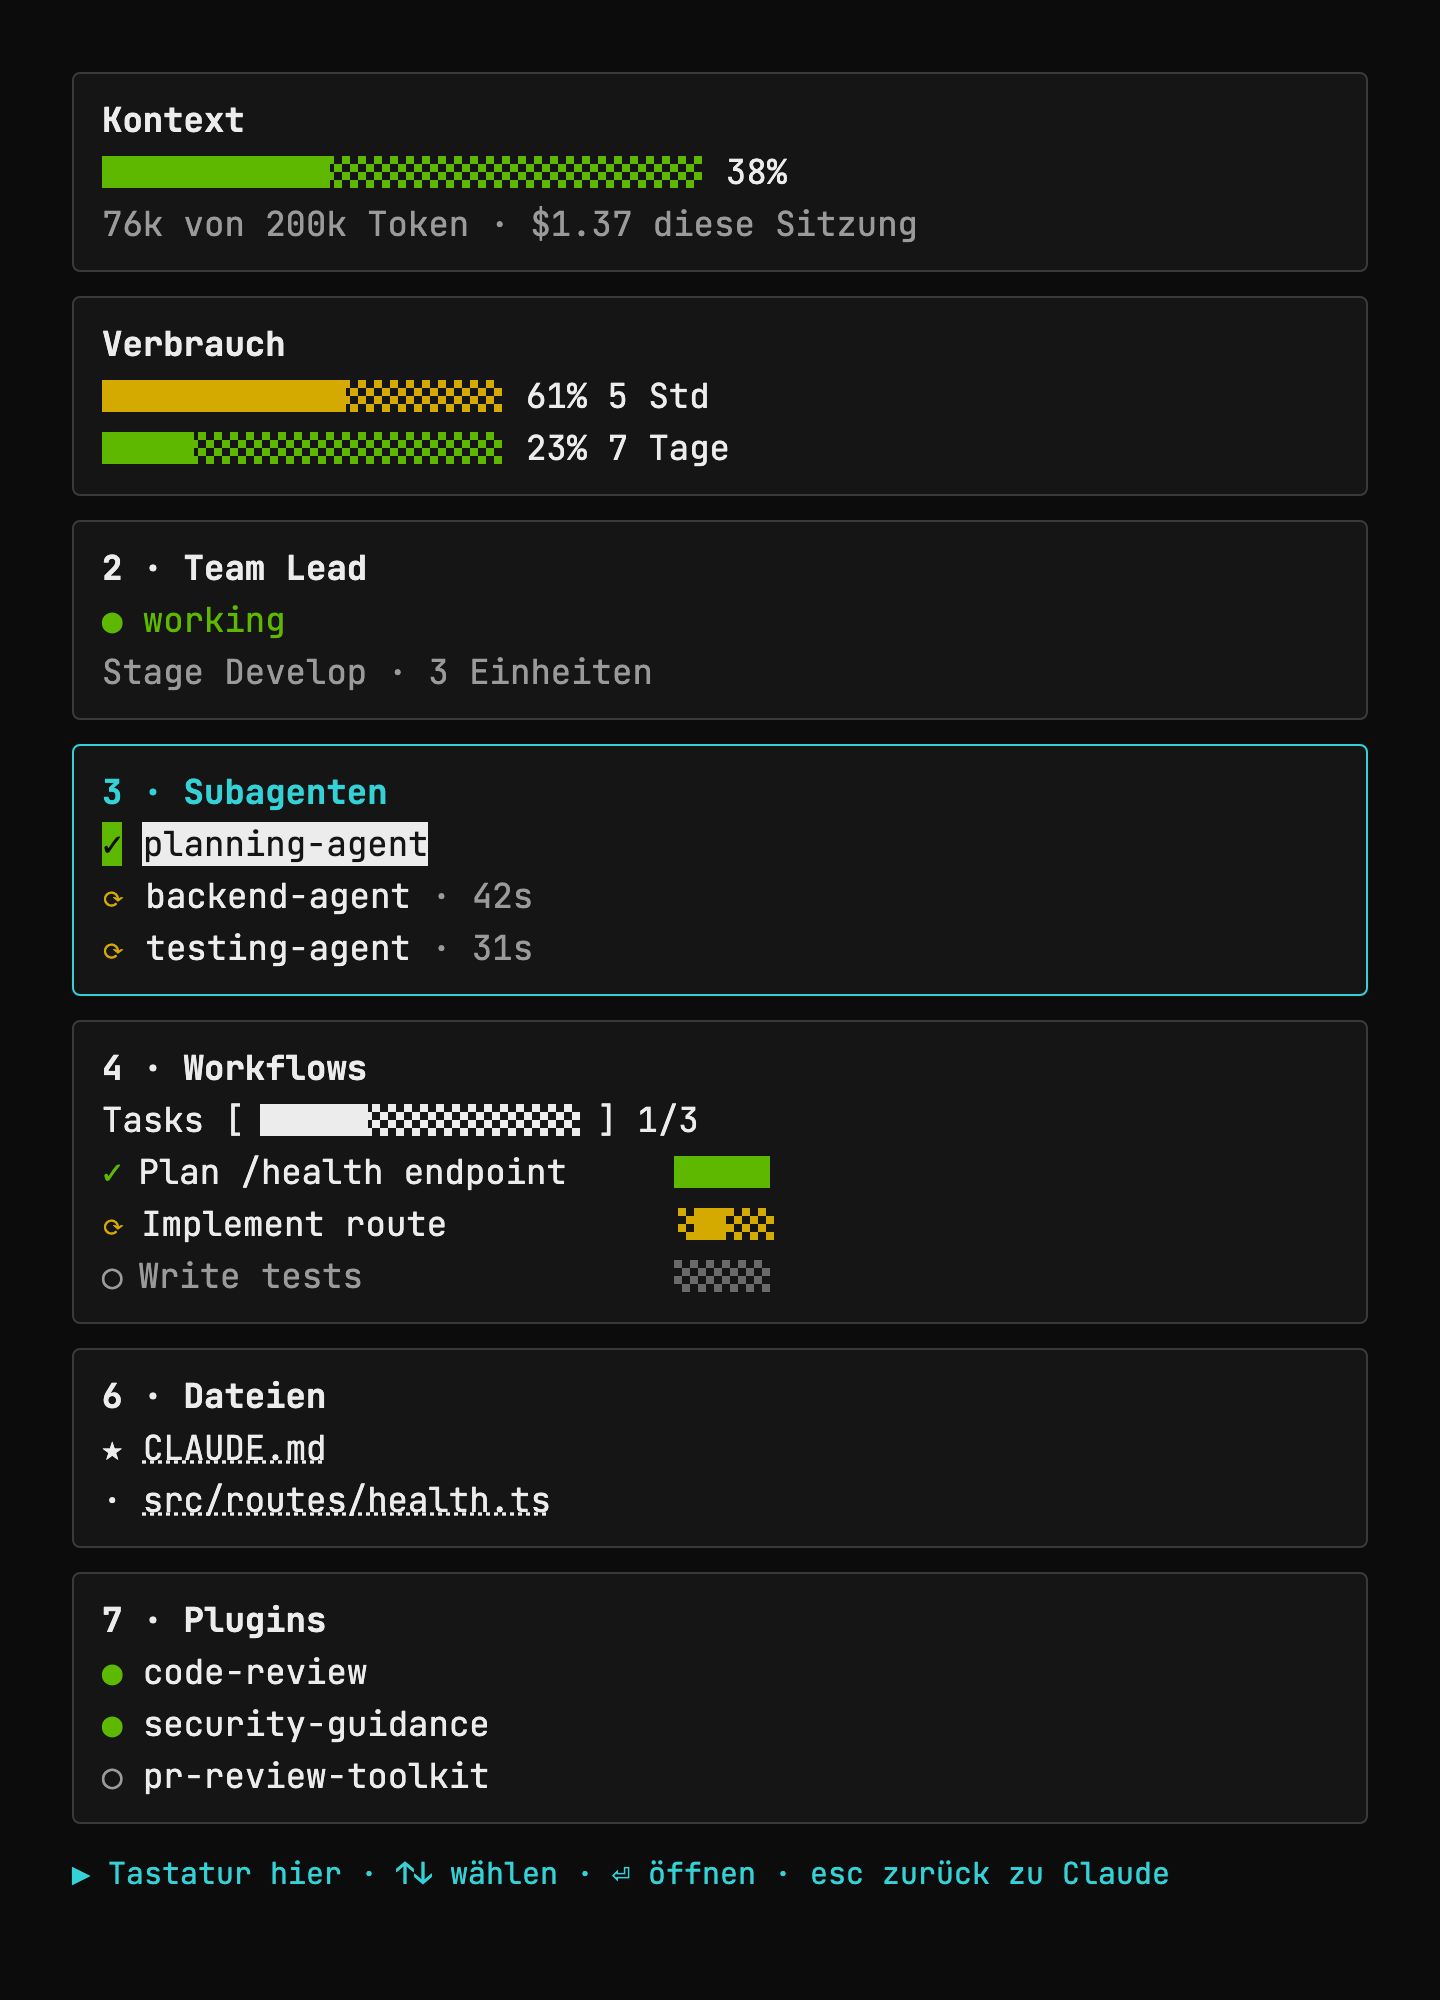
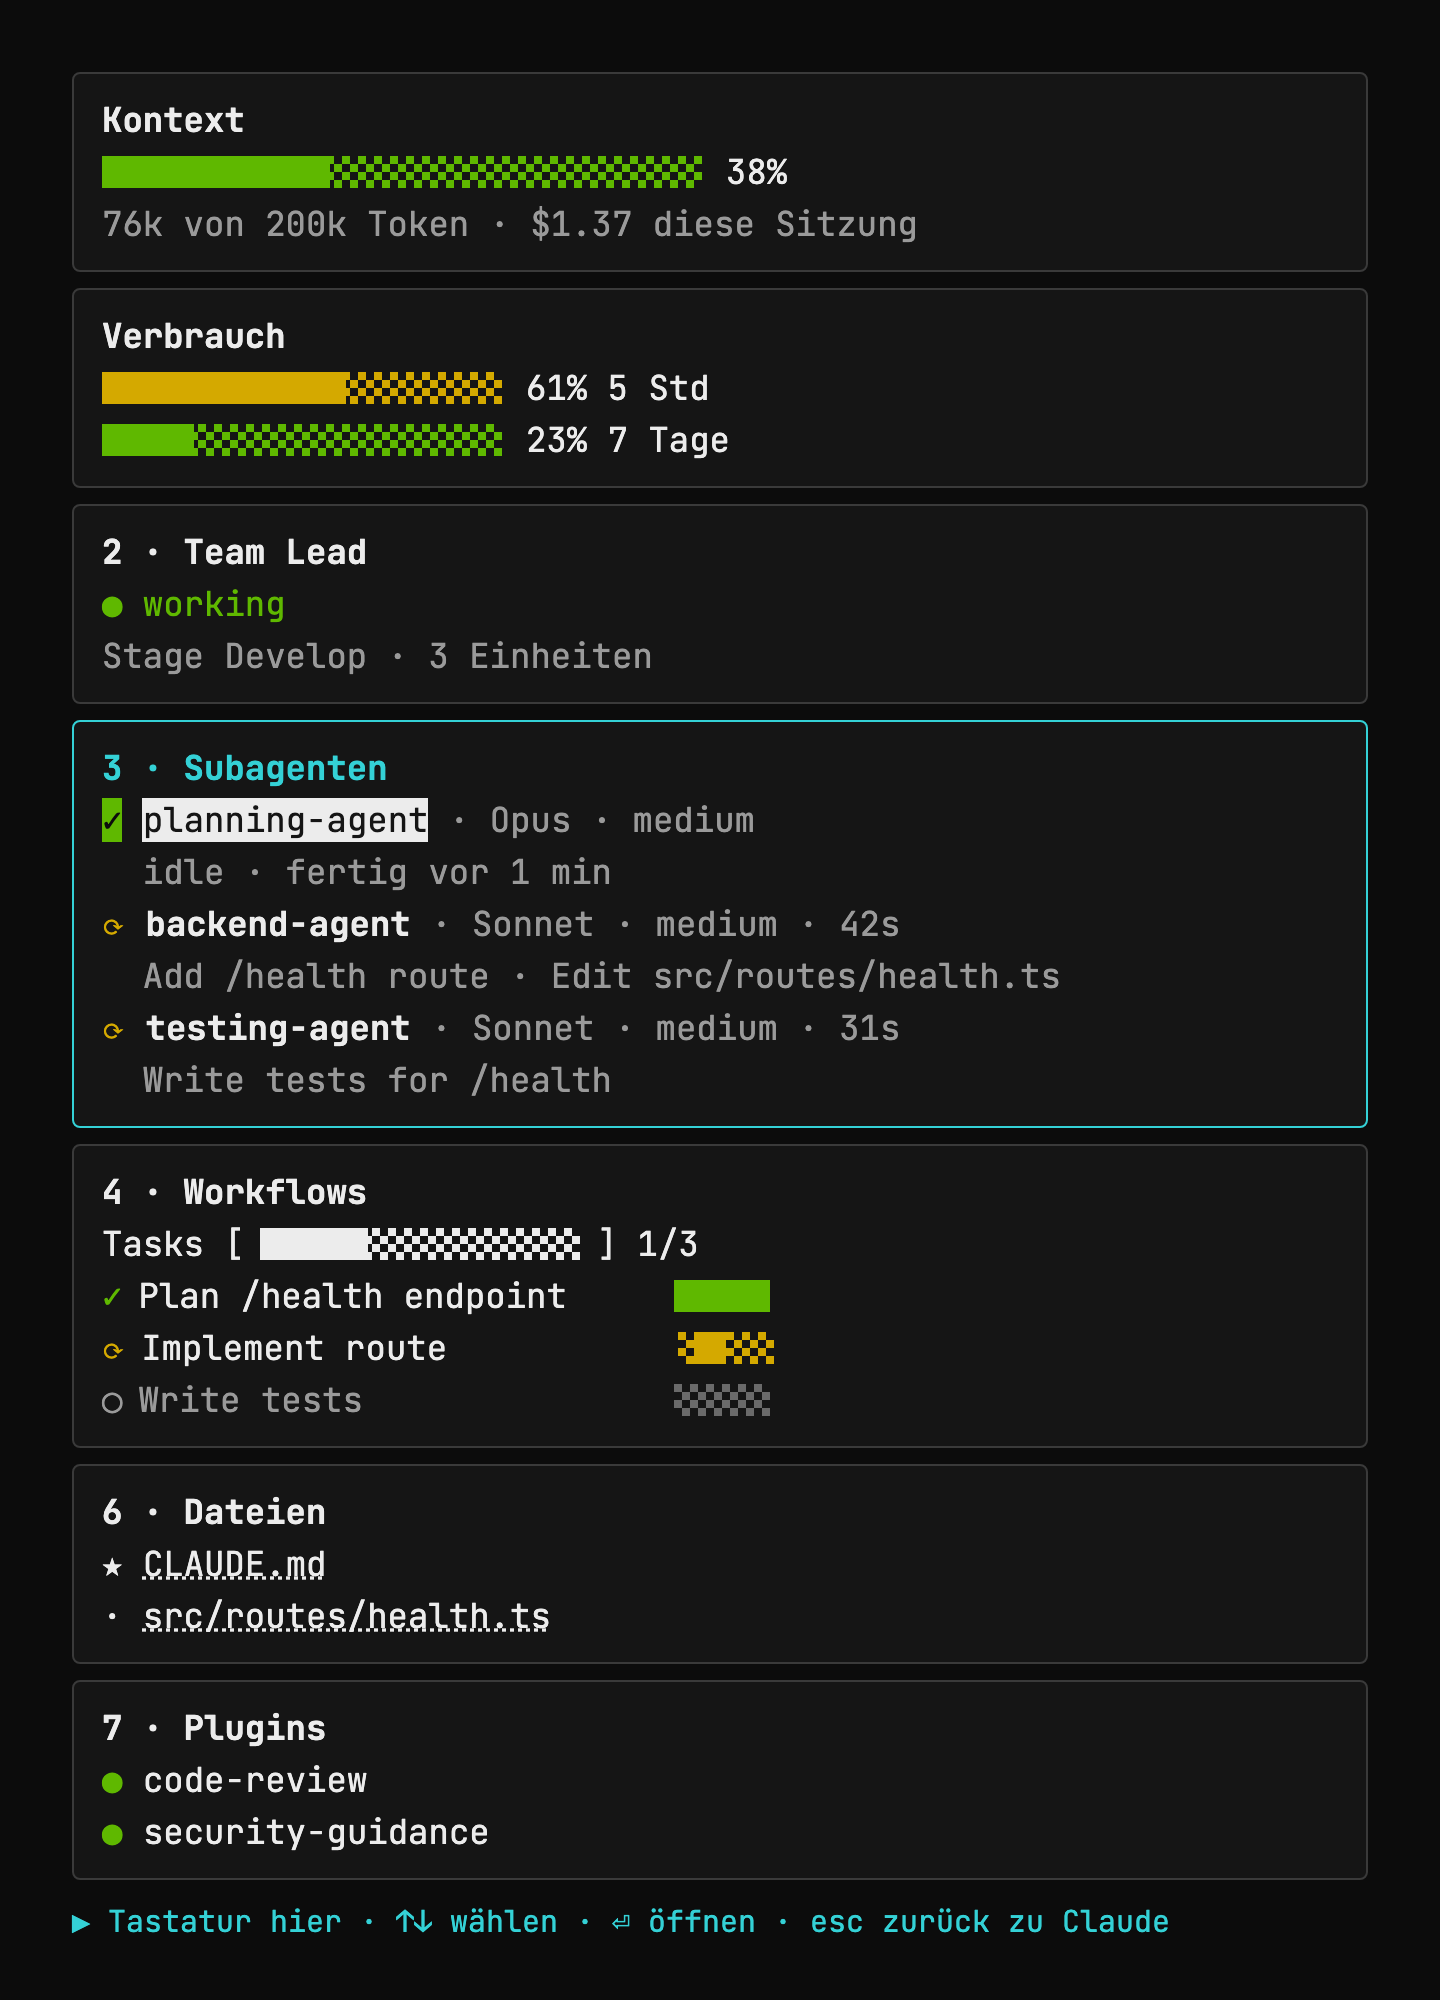
release: v1.4.1 (from private 2e42627)

diff --git a/site/cockpit.html b/site/cockpit.html
@@ -115,9 +115,31 @@
   </section>
 
   <section>
+    <div class="wrap prose" id="setup">
+      <h2 class="h2">Set it up</h2>
+      <p class="body">The Cockpit installs separately from the framework &mdash; it&rsquo;s its own repo with its own one-liner:</p>
+      <div class="code-block">
+        <pre><code id="cockpit-install-cmd">bash &lt;(curl -fsSL https://raw.githubusercontent.com/emanuelrechsteiner/claude-cockpit/main/install.sh)</code></pre>
+        <button class="copy-btn" type="button" data-copy-target="cockpit-install-cmd">Copy</button>
+      </div>
+      <p class="body">What it installs, step by step:</p>
+      <ol>
+        <li class="body">Installs Ghostty, tmux, Node and <code>jq</code> with Homebrew, for whichever of the four are missing.</li>
+        <li class="body">Clones the Cockpit into <code>~/.claude/cockpit</code> and runs <code>npm install</code> there.</li>
+        <li class="body">Puts the <code>cockpit</code> command on your <code>PATH</code>.</li>
+        <li class="body">Registers ten entries in <code>~/.claude/settings.json</code> &mdash; eight hooks, plus <code>statusLine</code> and <code>subagentStatusLine</code> &mdash; so the Cockpit is fed by the same hooks that drive a session.</li>
+        <li class="body">Adds the &#8984;1&ndash;&#8984;7 card shortcuts and a <code>theme = rcode</code> line to <code>~/.config/ghostty/config</code>, and drops the matching color theme into <code>~/.config/ghostty/themes/rcode</code>.</li>
+      </ol>
+      <p class="body"><strong>Requirements:</strong> macOS, plus Ghostty (<code>brew install --cask ghostty</code>) &mdash; the terminal the screenshots above were captured in, and the only one that sends &#8984;1&ndash;&#8984;7 to the cards and shows the theme colors. Also tmux 3.3 or newer, Node 22 or newer, and <code>jq</code> (<code>brew install tmux node jq</code> covers all three if any are missing).</p>
+      <p class="body">The installer shows every step before it runs and asks once for a yes/no; pass <code>--dry-run</code> to see the plan without changing anything on disk. Once it&rsquo;s done: reload the Ghostty config (&#8984;+Shift+,), open a project in Ghostty, and type <code>cockpit</code>. The Cockpit stays optional &mdash; the framework runs without it.</p>
+    </div>
+  </section>
+
+  <section>
     <div class="wrap prose">
       <h2 class="h2">Seven cards, updated live</h2>
-      <p class="body">Two info cards sit on top: context-window usage and session/weekly usage. Below them are seven numbered cards you can jump to with <code>&#8984;1</code>&ndash;<code>&#8984;7</code>: 1 &middot; Model &amp; Effort, 2 &middot; Team Lead, 3 &middot; Subagents (per-agent status &mdash; <code>&#10003;</code> done, <code>&#10007;</code> failed, <code>&#10227;</code> running), 4 &middot; Workflows, 5 &middot; Links, 6 &middot; Files and 7 &middot; Plugins. All of them are fed by the same hooks this repo registers.</p>
+      <p class="body">Two info cards sit on top: context-window usage and session/weekly usage. Below them are seven numbered cards you can jump to with <code>&#8984;1</code>&ndash;<code>&#8984;7</code>: 1 &middot; Model &amp; Effort, 2 &middot; Team Lead, 3 &middot; Subagents, 4 &middot; Workflows, 5 &middot; Links, 6 &middot; Files and 7 &middot; Plugins. All of them are fed by the same hooks this repo registers.</p>
+      <p class="body"><strong>Subagents</strong> gives every subagent two lines: its type with model and effort (<code>&#10003;</code> done, <code>&#10227;</code> running, <code>&#10007;</code> failed), and a status line under it &mdash; what it is working on while it runs, <em>idle</em> once it is done.</p>
       <p class="body"><strong>Workflows</strong> shows the overall bar for the session&rsquo;s task list, and under it every task as its own row with its own bar: full when done, empty while open, a travelling two-cell block while it runs. A task reports a state, not a percentage, so the bar never pretends to measure one.</p>
       <p class="body">See <a href="https://github.com/emanuelrechsteiner/claude-cockpit">claude-cockpit</a> for setup and the full keybinding table.</p>
     </div>

diff --git a/site/install.html b/site/install.html
@@ -177,6 +177,18 @@ R.Code never stores or reads your credentials.</code></pre>
     </div>
   </section>
 
+  <section>
+    <div class="wrap prose">
+      <h2 class="h2">Optional: the Cockpit</h2>
+      <p class="body">The Cockpit is a tmux sidebar that shows a session live &mdash; context, cost, running subagents, workflow progress. It installs separately, from its own repo, with its own one-liner:</p>
+      <div class="code-block">
+        <pre><code id="cockpit-install-cmd">bash &lt;(curl -fsSL https://raw.githubusercontent.com/emanuelrechsteiner/claude-cockpit/main/install.sh)</code></pre>
+        <button class="copy-btn" type="button" data-copy-target="cockpit-install-cmd">Copy</button>
+      </div>
+      <p class="body">See <a href="cockpit.html#setup">what it installs, step by step, and the requirements</a> before running it.</p>
+    </div>
+  </section>
+
 </main>
 
 <div class="block-rule" aria-hidden="true">

diff --git a/CHANGELOG.md b/CHANGELOG.md
@@ -12,6 +12,34 @@ repository and published with every release.
 
 ## [Unreleased]
 
+## [1.4.1] - 2026-09-26
+
+The Cockpit is now public and installable, and the website and README show it
+as it runs today. No rule, hook, skill, agent or script behavior changed for a
+public install.
+
+### Added
+
+- Cockpit setup, step by step: the Cockpit page ("Set it up"), the install
+  page ("Optional: the Cockpit") and the README carry the one-line installer
+  of the companion repo `claude-cockpit`. It lists every change before making
+  it (Ghostty, tmux, Node and jq via Homebrew; the Cockpit under
+  `~/.claude/cockpit`; the `cockpit` command; ten entries in
+  `~/.claude/settings.json`; Ghostty keybindings and the `rcode` color theme),
+  asks once, backs up every file it edits, and supports `--dry-run`.
+
+### Changed
+
+- Cockpit product images: the Subagents card names model and effort for
+  every subagent and adds a status line (its task while running, "idle" once
+  done); the Workflows card lists every task with its own bar.
+- Website Cockpit page describes both cards.
+
+### Fixed
+
+- The publish step also removes the private Cockpit `subagentStatusLine`
+  setting, so a public install never points at a script it does not have.
+
 ## [1.4.0] - 2026-09-26
 
 A name that follows Anthropic's rules, a website, and a front page that shows
@@ -158,7 +186,8 @@ developer's machine; the framework carries tokens. Decision record:
 
 Superseded. Their history was replaced by 1.1.0 and is no longer available.
 
-[Unreleased]: https://github.com/emanuelrechsteiner/claude-rcode/compare/v1.4.0...HEAD
+[Unreleased]: https://github.com/emanuelrechsteiner/claude-rcode/compare/v1.4.1...HEAD
+[1.4.1]: https://github.com/emanuelrechsteiner/claude-rcode/compare/v1.4.0...v1.4.1
 [1.4.0]: https://github.com/emanuelrechsteiner/claude-rcode/compare/v1.3.0...v1.4.0
 [1.3.0]: https://github.com/emanuelrechsteiner/claude-rcode/compare/v1.2.0...v1.3.0
 [1.2.0]: https://github.com/emanuelrechsteiner/claude-rcode/compare/v1.1.1...v1.2.0

diff --git a/README.md b/README.md
@@ -59,6 +59,14 @@ Every write, every commit and every publish is checked: 0 real values in any tra
 
 R.Code for Claude Code's rules and hooks are invisible until something happens. **Cockpit** is a companion tmux dashboard that makes a session visible while you work — a sidebar pane next to Claude Code showing context/usage, active subagents, workflow progress, and clickable links/files, fed by the same hooks this repo registers. It's optional; nothing in this repo depends on it.
 
+**Set it up** — separately, from its own repo, its own one-liner:
+
+```bash
+bash <(curl -fsSL https://raw.githubusercontent.com/emanuelrechsteiner/claude-cockpit/main/install.sh)
+```
+
+It installs Ghostty, tmux, Node and `jq` if missing, clones the Cockpit into `~/.claude/cockpit` and runs `npm install`, puts `cockpit` on your `PATH`, registers ten entries (eight hooks, `statusLine`, `subagentStatusLine`) in `~/.claude/settings.json`, and adds the ⌘1–⌘7 shortcuts plus the `rcode` color theme to your Ghostty config. Requirements: macOS, [Ghostty](https://ghostty.org) (the only terminal that sends ⌘1–⌘7 to the cards and matches the theme colors above), tmux ≥ 3.3, and Node ≥ 22. See [Cockpit &middot; set it up](https://rcode-for-claude-code.vercel.app/cockpit.html#setup) for the full step-by-step.
+
 <p align="center">
 <img src="docs/assets/cockpit/cockpit-hero.png" width="880" alt="Claude Code running /team-lead on the left, the Cockpit sidebar with seven live cards on the right, in a Ghostty terminal window"><br>
 <sub><em>Claude Code and the Cockpit side by side in Ghostty. Demo data.</em></sub>
